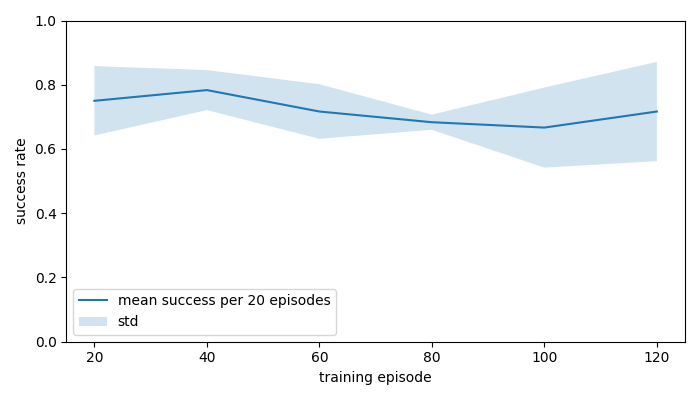
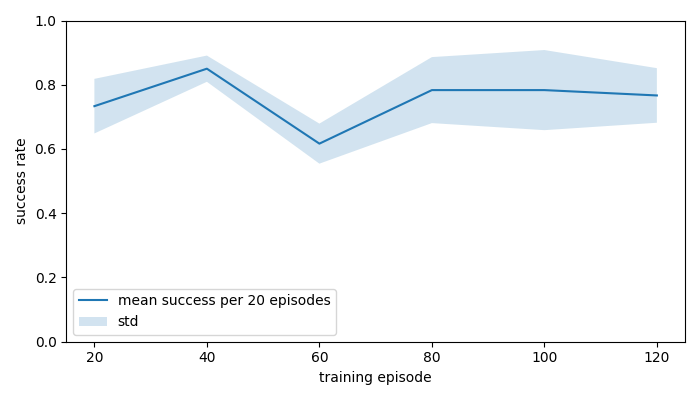
Log real seed per step; fix popup ablation wording

Changed region(s): [[0.12, 0.12, 0.96, 0.42]]

diff --git a/env/minishop_env.cpp b/env/minishop_env.cpp
@@ -56,6 +56,21 @@ int connect_tcp(const std::string& host, int port) {
     return fd;
 }
 
+int find_free_port() {
+    int fd = socket(AF_INET, SOCK_STREAM, 0);
+    if (fd < 0) throw std::runtime_error("socket failed");
+    sockaddr_in addr{};
+    addr.sin_family = AF_INET;
+    addr.sin_addr.s_addr = htonl(INADDR_LOOPBACK);
+    addr.sin_port = 0;
+    if (bind(fd, reinterpret_cast<sockaddr*>(&addr), sizeof(addr)) != 0) throw std::runtime_error("bind failed");
+    socklen_t len = sizeof(addr);
+    if (getsockname(fd, reinterpret_cast<sockaddr*>(&addr), &len) != 0) throw std::runtime_error("getsockname failed");
+    int port = ntohs(addr.sin_port);
+    close(fd);
+    return port;
+}
+
 std::string http_request(const std::string& method, const std::string& path, int port) {
     int fd = connect_tcp("127.0.0.1", port);
     timeval tv{3, 0};
@@ -94,7 +109,7 @@ class WebSocket {
     int fd = -1;
     bool read_exact(unsigned char* dst, size_t len) {
         size_t got = 0;
-        auto deadline = Clock::now() + std::chrono::seconds(5);
+        auto deadline = Clock::now() + std::chrono::seconds(90);
         while (got < len && Clock::now() < deadline) {
             int n = recv(fd, dst + got, len - got, 0);
             if (n > 0) {
@@ -167,6 +182,7 @@ class Env {
     int next_id = 1;
     int step_no = 0;
     int episode = 0;
+    int cur_seed = 0;
     std::string site_path, log_path, goal;
     std::ofstream log;
     json last_obs = json::object();
@@ -177,25 +193,35 @@ public:
     void start() {
         int pipefd[2];
         if (pipe(pipefd) != 0) throw std::runtime_error("pipe failed");
+        int debug_port = find_free_port();
         chrome_pid = fork();
         if (chrome_pid == 0) {
             close(pipefd[0]);
             dup2(pipefd[1], 1);
             dup2(pipefd[1], 2);
             std::string profile = "--user-data-dir=/tmp/minishop-cdp-" + std::to_string(getpid());
-            execlp("chromium-browser", "chromium-browser", "--headless=new", "--disable-gpu", "--no-sandbox",
-                  "--disable-dev-shm-usage", "--remote-debugging-port=0", profile.c_str(), "about:blank", nullptr);
-            execlp("chromium", "chromium", "--headless=new", "--disable-gpu", "--no-sandbox",
-                  "--disable-dev-shm-usage", "--remote-debugging-port=0", profile.c_str(), "about:blank", nullptr);
+            std::string port_arg = "--remote-debugging-port=" + std::to_string(debug_port);
             execlp("google-chrome", "google-chrome", "--headless=new", "--disable-gpu", "--no-sandbox",
-                  "--disable-dev-shm-usage", "--remote-debugging-port=0", profile.c_str(), "about:blank", nullptr);
+                  "--disable-dev-shm-usage", port_arg.c_str(), profile.c_str(), "about:blank", nullptr);
+            execlp("chromium-browser", "chromium-browser", "--headless=new", "--disable-gpu", "--no-sandbox",
+                  "--disable-dev-shm-usage", port_arg.c_str(), profile.c_str(), "about:blank", nullptr);
+            execlp("chromium", "chromium", "--headless=new", "--disable-gpu", "--no-sandbox",
+                  "--disable-dev-shm-usage", port_arg.c_str(), profile.c_str(), "about:blank", nullptr);
             _exit(1);
         }
         close(pipefd[1]);
         fcntl(pipefd[0], F_SETFL, O_NONBLOCK);
         std::string output, browser_ws;
-        auto deadline = Clock::now() + std::chrono::seconds(30);
+        auto deadline = Clock::now() + std::chrono::seconds(90);
         while (Clock::now() < deadline) {
+            try {
+                std::string body = http_request("GET", "/json/version", debug_port);
+                std::string from_http = json::parse(body).value("webSocketDebuggerUrl", "");
+                if (!from_http.empty()) {
+                    browser_ws = from_http;
+                    break;
+                }
+            } catch (...) {}
             char buf[512];
             int n = read(pipefd[0], buf, sizeof(buf));
             if (n > 0) {
@@ -214,14 +240,16 @@ public:
         }
         close(pipefd[0]);
         if (browser_ws.empty()) throw std::runtime_error("chromium did not print DevTools URL: " + output);
+        if (browser_ws.find("127.0.0.1/") != std::string::npos) {
+            browser_ws.replace(browser_ws.find("127.0.0.1/"), 10, "127.0.0.1:" + std::to_string(debug_port) + "/");
+        }
         debug("browser ws " + browser_ws);
-        UrlParts parts = parse_ws_url(browser_ws);
-        debug("http new on port " + std::to_string(parts.port));
-        std::string body = http_request("PUT", "/json/new?about:blank", parts.port);
+        debug("http new on port " + std::to_string(debug_port));
+        std::string body = http_request("PUT", "/json/new?about:blank", debug_port);
         debug("new body " + body.substr(0, 160));
         std::string ws_url = json::parse(body).value("webSocketDebuggerUrl", "");
         if (ws_url.find("127.0.0.1/") != std::string::npos) {
-            ws_url.replace(ws_url.find("127.0.0.1/"), 10, "127.0.0.1:" + std::to_string(parts.port) + "/");
+            ws_url.replace(ws_url.find("127.0.0.1/"), 10, "127.0.0.1:" + std::to_string(debug_port) + "/");
         }
         debug("page ws " + ws_url);
         ws.connect_url(ws_url);
@@ -267,10 +295,11 @@ public:
         episode++;
         step_no = 0;
         auto task = req["task"];
+        cur_seed = req.value("seed", 1);
         goal = task["item"].get<std::string>() + " x" + std::to_string(task["qty"].get<int>());
         std::ostringstream url;
         url << "file://" << site_path << "?item=" << task["item"].get<std::string>()
-            << "&qty=" << task["qty"].get<int>() << "&seed=" << req.value("seed", 1)
+            << "&qty=" << task["qty"].get<int>() << "&seed=" << cur_seed
             << "&popup_p=" << req.value("popup_p", 0.15) << "&delay_p=" << req.value("delay_p", 0.0);
         cdp("Page.navigate", {{"url", url.str()}});
         json obs;
@@ -307,7 +336,7 @@ public:
         out["reward"] = reward; out["done"] = done; out["truncated"] = truncated; out["step_ms"] = ms;
         out["info"] = err.empty() ? json::object() : json{{"error", err}};
         if (log) {
-            log << json{{"episode", episode}, {"seed", 0}, {"goal", goal}, {"step", step_no}, {"observation", obs},
+            log << json{{"episode", episode}, {"seed", cur_seed}, {"goal", goal}, {"step", step_no}, {"observation", obs},
                         {"action", action}, {"reward", reward}, {"done", done}, {"truncated", truncated},
                         {"step_ms", ms}, {"popup_visible", obs.value("popup", false)}}.dump() << "\n";
             log.flush();

diff --git a/analysis/analyze.py b/analysis/analyze.py
@@ -123,7 +123,11 @@ def main():
         f.write("## 3. Popup Ablation\n\n")
         for p, s in ablations.items():
             f.write(f"- popup_p={p}: {s[0]}/{s[1]} = {s[0]/max(1,s[1]):.3f}, CI [{s[2]:.3f}, {s[3]:.3f}]\n")
-        f.write("\nHigher popup rates add forced Dismiss clicks. The learned policy can recover when Dismiss is visible, but each popup consumes steps and raises the chance of hitting the 20-step limit.\n\n")
+        same = ablations["0.0"][0] == ablations["0.15"][0] == ablations["0.4"][0] and ablations["0.0"][1] == ablations["0.15"][1] == ablations["0.4"][1]
+        if same:
+            f.write(f"\nSuccess was identical at popup_p=0, 0.15, and 0.4: {ablations['0.0'][0]}/{ablations['0.0'][1]} in each case. On these seeds, the learned policy absorbed popup Dismiss clicks within the 20-step budget, so no episode outcome flipped.\n\n")
+        else:
+            f.write("\nPopup outcomes changed on this run, so the table above is the source of truth for this ablation.\n\n")
         f.write("## 4. Top Failure Reasons\n\n")
         for reason, count in top_fail:
             ex = examples[reason]

diff --git a/report.md b/report.md
@@ -5,7 +5,7 @@ All numbers below are computed from JSONL logs generated by `run.sh`.
 ## 1. Success Rate
 
 - Random: 9/200 = 0.045, 95% Wilson CI [0.024, 0.083]
-- Q-learning: 119/200 = 0.595, 95% Wilson CI [0.526, 0.661]
+- Q-learning: 168/200 = 0.840, 95% Wilson CI [0.783, 0.884]
 
 ## 2. Learning Curve
 
@@ -13,22 +13,20 @@ See `analysis/learning_curve.png`. It plots the mean of the three training runs 
 
 ## 3. Popup Ablation
 
-- popup_p=0.0: 119/200 = 0.595, CI [0.526, 0.661]
-- popup_p=0.15: 119/200 = 0.595, CI [0.526, 0.661]
-- popup_p=0.4: 119/200 = 0.595, CI [0.526, 0.661]
+- popup_p=0.0: 168/200 = 0.840, CI [0.783, 0.884]
+- popup_p=0.15: 168/200 = 0.840, CI [0.783, 0.884]
+- popup_p=0.4: 168/200 = 0.840, CI [0.783, 0.884]
 
-Higher popup rates add forced Dismiss clicks. The learned policy can recover when Dismiss is visible, but each popup consumes steps and raises the chance of hitting the 20-step limit.
+Success was identical at popup_p=0, 0.15, and 0.4: 168/200 in each case. On these seeds, the learned policy absorbed popup Dismiss clicks within the 20-step budget, so no episode outcome flipped.
 
 ## 4. Top Failure Reasons
 
-- hit 20-step limit on product/quantity screen: 39; example episode 10 goal black-book x1 action click(3) screen product
-- hit 20-step limit in cart recovery: 22; example episode 16 goal red-shirt x1 action click(2) screen cart
-- hit 20-step limit in catalog navigation: 17; example episode 4 goal red-shirt x1 action click(1) screen catalog
+- hit 20-step limit on product/quantity screen: 32; example episode 9 goal green-cap x3 action click(0) screen product
 
 ## 5. Step Time
 
-- Median step time: 33 ms
-- 95th percentile step time: 110 ms
+- Median step time: 29 ms
+- 95th percentile step time: 105 ms
 
 The dominant cost is CDP round trips plus re-observing the page after each action. Real mouse clicks add two CDP calls; wait actions mostly spend their fixed sleep.
 
